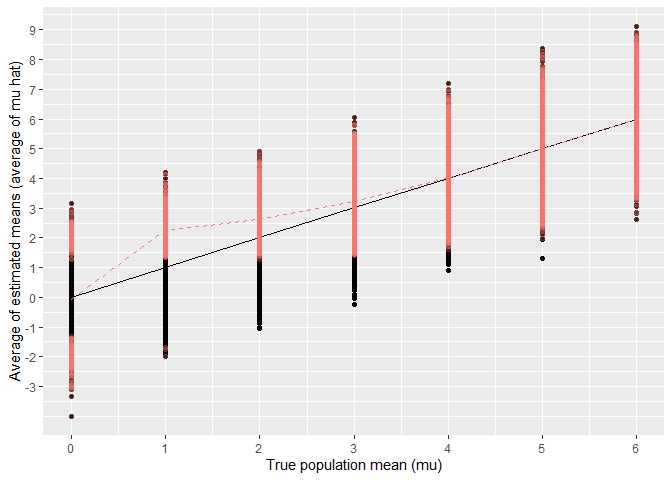
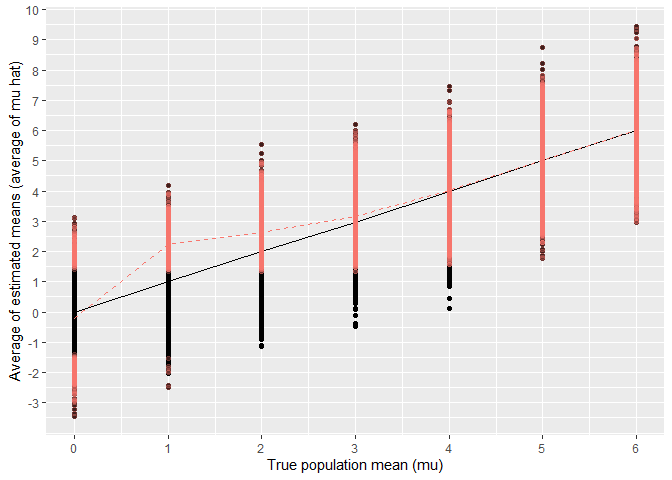
Second commit with updated graphs

diff --git a/p8105_hw5_jt3466.md b/p8105_hw5_jt3466.md
@@ -86,6 +86,17 @@ sim_data <-
   ) |> 
   unnest(cols = results) 
   
+# sim_data |> 
+#   filter(p.value < 0.05) |> 
+#   mutate(
+#     abs_statistic = abs(statistic)
+#   ) |> 
+#   select(pop_mean, abs_statistic) |> 
+#   group_by(pop_mean) |> 
+#   summarize(
+#     mean_abs_stat = mean(abs_statistic)
+#   )
+
 # sim_res_data <- 
 #   sim_data |> 
 #   select(pop_mean, estimate, p.value) |> 
@@ -198,24 +209,16 @@ sig_avg_mu_hats <-
     avg_estimated_mean = mean(estimated_mean) 
   )
 
-avg_mu_hats |> 
-  filter(pop_mean == 1) |> 
-  summarize(est_mean = mean(estimated_mean)) |> 
-  pull(est_mean)
-```
+# avg_mu_hats |> 
+#   filter(pop_mean == 1) |> 
+#   summarize(est_mean = mean(estimated_mean)) |> 
+#   pull(est_mean)
+# 
+# sig_avg_mu_hats |> 
+#   filter(pop_mean == 1) |> 
+#   summarize(est_mean = mean(estimated_mean)) |> 
+#   pull(est_mean)
 
-    ## [1] 1.00145
-
-``` r
-sig_avg_mu_hats |> 
-  filter(pop_mean == 1) |> 
-  summarize(est_mean = mean(estimated_mean)) |> 
-  pull(est_mean)
-```
-
-    ## [1] 2.254885
-
-``` r
 avg_mu_hats |> 
   ggplot(aes(x = pop_mean, y = estimated_mean)) +
   geom_point() + 
@@ -256,9 +259,45 @@ population mean is approximately the population mean. However, for the
 sample average estimated means for estimates significantly different
 from the null, the trend is largely similar except when the population
 mean is 1 and to a lesser extent, 2. When the population mean is 1, the
-average estimated mean among significant estimates is 2.2548846 instead
+average estimated mean among significant estimates is 2.2397479 instead
 of 1. When the population mean is 2, the average estimated mean among
-significant estimates is 2.2548846.
+significant estimates is 2.6212215.
+
+This somewhat makes sense given that when mu = 1, the lowest of the
+significantly different estimated means is still above mu itself (the
+black line), whereas that effect of the red points being above the black
+line decreases as mu increases. And for mu = 0, there is an
+approximately even distribution of significant points above and below
+mu, which is why the average estimated means is around mu = 0, as the
+two sides balance out.
+
+``` r
+sig_avg_mu_hats |> 
+  mutate(
+    pop_mean = factor(pop_mean)
+  ) |> 
+  ggplot(aes(x = pop_mean, y = estimated_mean, fill = pop_mean)) +
+  geom_violin() +
+  stat_summary(fun = "mean") + 
+  scale_y_continuous(
+    breaks = seq(-3, 10, by = 1)
+  ) +
+  guides(
+    fill = "none"
+  )
+```
+
+    ## Warning: Removed 7 rows containing missing values or values outside the scale range
+    ## (`geom_segment()`).
+
+![](p8105_hw5_jt3466_files/figure-gfm/unnamed-chunk-1-1.png)<!-- -->
+
+This is reinforced when looking at the distribution of estimated means
+grouped by the population mean the sample came from. When mu is 1, the
+distribution appears to have a left tail with only a smattering of
+points in the negative, while the bulk of points are around 2 but bound
+by the standard deviation around mu to keep the maximum estimated mean
+around 4.
 
 # Question 3
 
